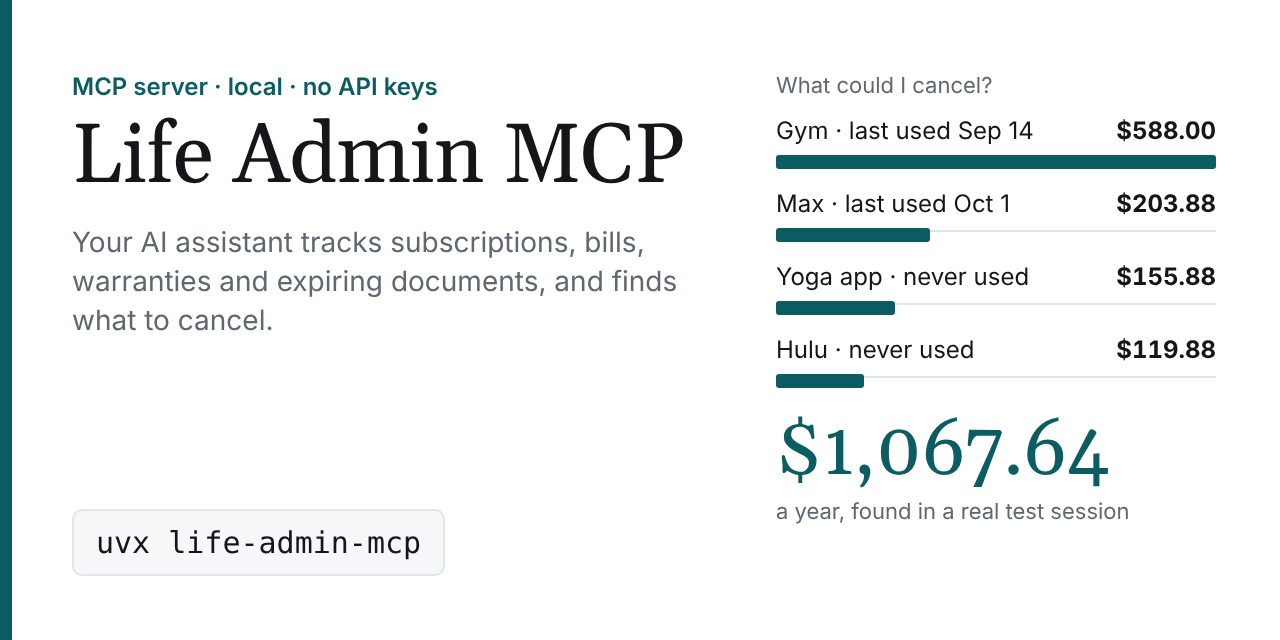
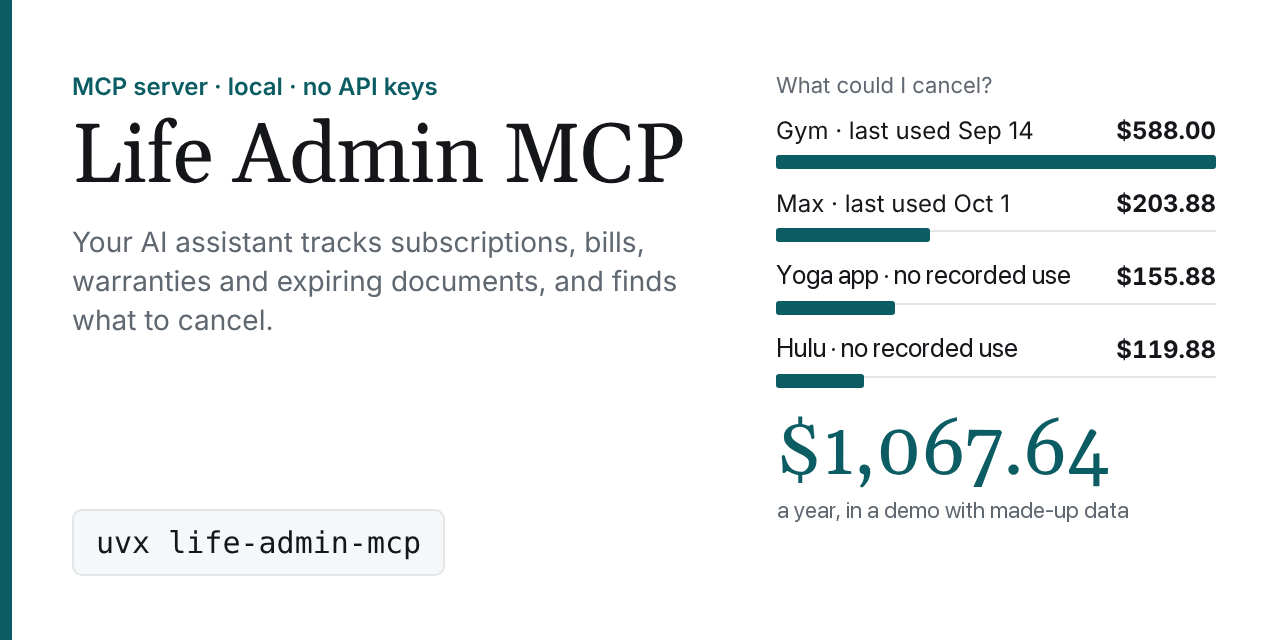
Make launch claims accurate and add privacy, limits and trademark notes
- Say what is true: local storage and no network calls, while noting that
  the AI assistant (and a cloud model's provider) sees tool results
- "Finds recurring charges" and "suggests what to cancel" instead of
  "every subscription" and "tells you what to cancel"
- cancel_item says it only stops tracking and does not cancel with the
  provider; savings output and server instructions say results are estimates
- Label the demo and social preview as made-up data; "no recorded use"
  instead of "never used"; date and attribute the cited survey correctly
- Add Privacy, Limitations and Trademarks sections and a delete-everything FAQ
- Issue template warns against posting real financial data
- Working private channel in the code of conduct; inbound MIT licence line
  in CONTRIBUTING; accurate file-access note in SECURITY.md
- Pin mcp-publisher to v1.8.16 with a SHA-256 check and pin the PyPI
  publish action to a commit

Changed region(s): [[0.5938, 0.4062, 0.8438, 0.4688], [0.5938, 0.7812, 0.875, 0.8125], [0.5938, 0.5312, 0.8125, 0.5625]]

diff --git a/src/life_admin_mcp/server.py b/src/life_admin_mcp/server.py
@@ -37,7 +37,10 @@ INSTRUCTIONS = (
     "Use get_upcoming for 'what's due', find_savings for 'what can I cancel', spending_summary for totals, "
     "forecast for future months. If the user has a bank or card statement, use scan_statement to find "
     "recurring charges, show them the results, and only add the items they confirm. "
-    "Confirm with the user before delete_item. Never invent amounts or dates: ask if unknown."
+    "Confirm with the user before delete_item. Never invent amounts or dates: ask if unknown. "
+    "Savings and recurring-charge results are estimates from the user's own data, not financial advice: "
+    "say so briefly, and suggest checking terms, notice periods and fees with the provider before cancelling. "
+    "This server cannot cancel anything with a provider; cancel_item only stops tracking."
 )
 
 mcp = _Server("life-admin", instructions=INSTRUCTIONS)
@@ -156,7 +159,8 @@ def add_item(
         cycle: weekly | monthly | quarterly | yearly | once. Warranties and documents are usually "once".
         category: Optional group such as "streaming", "insurance", "utilities". Used to spot overlaps.
         remind_days: How many days ahead it should appear in get_upcoming (passports: about 180).
-        notes: Anything useful, such as an account number hint or how to cancel.
+        notes: Anything useful, such as how to cancel or which login email it uses.
+            Never store full card or account numbers.
     """
     item = get_store().add(
         name=name,
@@ -259,6 +263,7 @@ def find_savings(unused_days: int = 30) -> str:
                 for i in s["stale"]
             )
             + f"\n  Potential saving: {_money(s['potential_yearly'])} per year"
+            + "\n  (Estimate only. Check terms and fees with each provider before cancelling.)"
         )
     if s["overlaps"]:
         out.append(
@@ -267,7 +272,9 @@ def find_savings(unused_days: int = 30) -> str:
                 f"  {cat}: " + ", ".join(f"{i.name} (#{i.id})" for i in items) for cat, items in s["overlaps"].items()
             )
         )
-    return "\n\n".join(out) or "No obvious savings: every subscription looks used and unique."
+    return (
+        "\n\n".join(out) or "No obvious savings: every tracked subscription has recent recorded use and none overlap."
+    )
 
 
 @tool(IDEMPOTENT)
@@ -309,9 +316,13 @@ def update_item(
 
 @tool(IDEMPOTENT)
 def cancel_item(item_id: int) -> str:
-    """Mark an item as cancelled. It stays in history (list_items include_inactive=true)
-    and stops appearing in reminders and totals. Use reactivate_item to undo."""
-    return "Cancelled:\n" + fmt(get_store().set_active(item_id, False))
+    """Stop tracking an item the user has cancelled (or will cancel) with the provider.
+    This does NOT contact the provider or cancel anything there. The item stays in history
+    (list_items include_inactive=true) and stops appearing in reminders and totals.
+    Use reactivate_item to undo."""
+    return "Stopped tracking (this does not cancel it with the provider; cancel there too):\n" + fmt(
+        get_store().set_active(item_id, False)
+    )
 
 
 @tool(IDEMPOTENT)
@@ -479,7 +490,7 @@ def upcoming_resource() -> str:
 
 @mcp.prompt()
 def import_statement() -> str:
-    """Find every subscription in a bank or card statement and start tracking them."""
+    """Find the recurring charges in a bank or card statement and start tracking the ones the user confirms."""
     return (
         "Help me find all my subscriptions and recurring bills. Ask me to export my last 3-12 months "
         "of transactions as a CSV from my bank or card app and give you the file path, or paste it. "

diff --git a/README.md b/README.md
@@ -2,23 +2,23 @@
 
 # Life Admin MCP
 
-**Give your AI assistant a bank statement. It finds every subscription you're paying for, warns you before free trials charge, and tells you what to cancel.**
+**Give your AI assistant a bank statement. It finds the recurring charges you're paying for, warns you before free trials charge, and suggests what you could cancel.**
 
 [![PyPI](https://img.shields.io/pypi/v/life-admin-mcp)](https://pypi.org/project/life-admin-mcp/)
 [![CI](https://github.com/bishalkarki01/life-admin-mcp/actions/workflows/ci.yml/badge.svg)](https://github.com/bishalkarki01/life-admin-mcp/actions/workflows/ci.yml)
 ![Python](https://img.shields.io/badge/python-3.10%2B-blue)
 ![License](https://img.shields.io/badge/license-MIT-green)
-![Local only](https://img.shields.io/badge/data-stays%20on%20your%20machine-0b5d63)
+![Local storage](https://img.shields.io/badge/storage-local%20SQLite%2C%20no%20network%20calls-0b5d63)
 
 <img src="https://raw.githubusercontent.com/bishalkarki01/life-admin-mcp/main/docs/demo.gif" alt="Demo: scanning a year of bank transactions finds 12 recurring charges worth $3,406 a year, then asking what to cancel finds $1,067 a year" width="800">
 
-<sub>Real output from a test session. [Watch the full 90-second demo](https://github.com/bishalkarki01/life-admin-mcp/raw/main/docs/demo.mp4).</sub>
+<sub>Real tool output from a demo with a made-up user and made-up data. Your results will differ. [Watch the full 90-second demo](https://github.com/bishalkarki01/life-admin-mcp/raw/main/docs/demo.mp4).</sub>
 
 </div>
 
 ---
 
-People guess they spend about **$86 a month** on subscriptions. When they add it up, the real figure is closer to **$219**, and 42% are paying for something they stopped using ([C+R Research survey, via CNBC](https://www.nbcwashington.com/news/business/money-report/consumers-spend-an-average-133-more-each-month-on-subscriptions-than-they-realize-study-shows/3067565/)).
+In a 2022 survey, people guessed they spend about **$86 a month** on subscriptions; asked category by category, the figure was closer to **$219**, and 42% said they'd forgotten a subscription they were still paying for ([C+R Research survey, reported via NBC](https://www.nbcwashington.com/news/business/money-report/consumers-spend-an-average-133-more-each-month-on-subscriptions-than-they-realize-study-shows/3067565/)).
 
 Life Admin MCP gives Claude, Cursor or any other MCP assistant a memory for this. You just talk to it:
 
@@ -29,14 +29,14 @@ Life Admin MCP gives Claude, Cursor or any other MCP assistant a memory for this
 > **Assistant:** $2,254.47 in charges. Rent and the gym on Dec 1, then Netflix, Spotify and your phone. Heads-up: your fridge warranty already expired, and your MacBook's ends Dec 12.
 
 > **You:** What could I cancel?
-> **Assistant:** You haven't used the gym since September, and the yoga app and Hulu never. Cancelling those and Max would save **$1,067.64 a year**. You also pay for three streaming services.
+> **Assistant:** You last used the gym in September, and there's no recorded use of the yoga app or Hulu. Cancelling those and Max would save about **$1,067.64 a year**. You also pay for three streaming services.
 
 ## Why you'll like it
 
 - 🔎 **Finds subscriptions you forgot.** Point it at a CSV from your bank or card app. It works with most banks' formats, removes the noise from merchant names, and finds anything that repeats weekly, monthly, quarterly or yearly. It spots price rises, tells variable bills apart from fixed ones, and flags subscriptions that have already stopped. It never stores the statement.
 - ⏳ **Catches free trials.** It warns you before a trial becomes a paid subscription.
 
-- 🔒 **Private.** Everything is stored in one SQLite file on your computer. It needs no account or API key, makes no network calls and has no telemetry.
+- 🔒 **Local storage, no network.** Everything is stored in one SQLite file on your computer. The server needs no account or API key, makes no network calls and has no telemetry. Your AI assistant does see tool results, so see [Privacy](#privacy).
 - ⚡ **30-second setup.** One line in your MCP client's config.
 - 🧠 **Remembers what you forget.**
   - Recurring charges move to their next date automatically.
@@ -45,8 +45,8 @@ Life Admin MCP gives Claude, Cursor or any other MCP assistant a memory for this
 - 💸 **Finds savings.** It spots unused subscriptions, overlaps like three streaming services, and price increases since you started tracking.
 - 📈 **Forecasts your spending.** It shows how much will go out each month for the next 1–36 months.
 - 📅 **Works with your calendar.** It exports a standard `.ics` file with alerts for Google, Apple or Outlook calendars.
-- ✅ **Production quality.**
-  - 72 tests run on Linux, macOS and Windows, on both MCP SDK v1 and v2.
+- ✅ **Well tested.**
+  - 103 tests run on Linux, macOS and Windows, on both MCP SDK v1 and v2.
   - Every input is validated.
   - Schema migrations keep your data safe across upgrades.
 
@@ -101,8 +101,8 @@ docker build -t life-admin-mcp . && docker run -i --rm -v life-admin:/data life-
 |---|---|
 | "Find my subscriptions in ~/Downloads/statement.csv" | Lists recurring charges with yearly costs, price changes and ones that look cancelled, then asks which to track |
 | "I started a Duolingo trial, it ends Dec 10 and then costs $12.99 a month" | Tracked as a trial, with a warning before it starts charging |
-| "Add my rent, $2,100 on the 1st of every month" | Tracked, with a reminder 7 days ahead |
-| "My passport expires 2027-05-02, warn me 6 months before" | Shows up in reminders from November |
+| "Add my rent, $2,100 on the 1st of every month" | Tracked; shows up in "what's due" from 7 days ahead |
+| "My passport expires 2027-05-02, warn me 6 months before" | Shows up in "what's due" from November |
 | "What's due this week?" | Charges and expiries, with expired items flagged first |
 | "How much do I spend on subscriptions?" | Monthly and yearly totals by category and currency |
 | "What could I cancel?" | Unused subscriptions and overlaps, with the yearly saving |
@@ -125,7 +125,7 @@ docker build -t life-admin-mcp . && docker run -i --rm -v life-admin:/data life-
 | `find_savings` | Find unused subscriptions and overlaps | read-only |
 | `mark_used` | Record that you used a subscription | write |
 | `update_item` | Change any field | write |
-| `cancel_item` / `reactivate_item` | Stop or resume tracking (history is kept) | write |
+| `cancel_item` / `reactivate_item` | Stop or resume tracking. This does not cancel anything with the provider; history is kept | write |
 | `delete_item` | Permanently delete an item | **destructive** |
 | `forecast` | Show money going out per month | read-only |
 | `get_item` | Show full details, including price history | read-only |
@@ -147,22 +147,35 @@ HTTP mode only listens on your own machine, because it has no login. To bind it 
 ## FAQ
 
 **Does it connect to my bank?**
-No, and that's on purpose: nothing leaves your machine. Export a CSV from your bank or card app (most have "Download transactions") and ask your assistant to scan it. The statement is analysed in memory and never stored. Only the items you confirm are saved.
+No, and that's on purpose: the server never connects to your bank or the internet. Export a CSV from your bank or card app (most have "Download transactions") and ask your assistant to scan it. The statement is analysed in memory and never stored. Only the items you confirm are saved.
 
 **Which banks work?**
-Most CSV exports work. It detects the date, description and amount (or debit/credit) columns, the delimiter, the date format (US, EU or ISO), and whether spending is shown as positive or negative. It also skips header lines some banks put above the data. If yours doesn't work, [open an issue](https://github.com/bishalkarki01/life-admin-mcp/issues/new/choose) with the header row and one made-up line.
+Most CSV exports work. It detects the date, description and amount (or debit/credit) columns, the delimiter, the date format (US, EU or ISO), and whether spending is shown as positive or negative. It also skips header lines some banks put above the data. If yours doesn't work, [open an issue](https://github.com/bishalkarki01/life-admin-mcp/issues/new/choose) with the header row and one made-up line. Never post real transactions: issues are public.
 
 **Can I try it without my own data?**
 Yes. Download [`sample-statement.csv`](https://raw.githubusercontent.com/bishalkarki01/life-admin-mcp/main/examples/sample-statement.csv), a realistic made-up year of card transactions, then ask your assistant to scan it using the full path where you saved it.
 
 **Will it remind me on its own?**
-Your assistant reminds you when you ask. For phone alerts, say "put it all on my calendar" and import the `.ics` file into your calendar app.
+Your assistant reminds you when you ask. For phone alerts, say "put it all on my calendar" and import the `.ics` file into your calendar app. The file is a snapshot, so export it again after changes. Don't rely on this tool alone for legal, travel or payment deadlines.
 
 **Can I use different currencies?**
 Yes. Totals are kept separately for each currency and never converted.
 
 **Where's my data, and how do I back it up?**
 It's one file at `~/.life-admin/life_admin.db` (on macOS and Linux, only your user account can read it). To back it up, ask "back up my data", or copy that file.
+
+**How do I delete everything?**
+Quit your MCP client and delete the `~/.life-admin/` folder (or the file you set with `--db`, plus any `-wal` and `-shm` files next to it).
+
+## Privacy
+
+The maintainer collects no data. Life Admin MCP has no servers, accounts, analytics or telemetry, and it stores your items in a local SQLite file that you control.
+
+What the tools return (merchant names, amounts, dates, notes) goes into your conversation with your AI assistant. If that assistant uses a cloud model (Claude, ChatGPT, Cursor and so on), its provider processes that text under its own privacy terms. To keep raw statement rows out of the chat, give the assistant a file path instead of pasting the CSV. To keep everything on your machine, use a local model.
+
+## Limitations
+
+Life Admin MCP is a personal organiser, not financial, legal or tax advice. It finds subscriptions by spotting patterns, so it can miss charges, misread amounts or dates, or flag something you still need. "Unused" only means you haven't told it you used something. Reminders appear only when you ask your assistant or import a calendar file. It cannot cancel anything with a provider: check terms, notice periods and fees with the provider before you cancel. It is provided as is, with no warranty (see the [license](https://github.com/bishalkarki01/life-admin-mcp/blob/main/LICENSE)).
 
 ## Roadmap
 
@@ -182,6 +195,10 @@ PRs are welcome. See [CONTRIBUTING.md](https://github.com/bishalkarki01/life-adm
 ```bash
 pip install -e ".[dev]" && pytest
 ```
+
+## Trademarks
+
+Product and company names such as Netflix, Spotify, Hulu, Max, Apple, Adobe, Amazon, YouTube, Claude and Cursor are trademarks of their respective owners. They appear only to describe example transactions and compatible apps. Life Admin MCP is an independent project and is not affiliated with or endorsed by any of them, including Anthropic.
 
 ## License
 

diff --git a/SECURITY.md b/SECURITY.md
@@ -14,7 +14,7 @@ Security fixes go into the latest release.
 ## Design
 
 - **No network access.** The server makes no outbound connections and collects no telemetry.
-- **Narrow file access.** It reads and writes only its own SQLite database (`~/.life-admin/` by default), and creates that folder so only your user can open it.
+- **Narrow file access.** It writes only to its own SQLite database (`~/.life-admin/` by default), which it creates so only your user can open it. The only other files it reads are statements passed to `scan_statement` as `csv_path`: any `.csv`, `.tsv` or `.txt` file under 5 MB that your account can read. Keep your client's tool-approval prompts on to see which file it reads.
 - **Statements stay in memory.** `scan_statement` analyses a statement in memory and never stores it. With `csv_path` it opens only `.csv`, `.tsv` or `.txt` files under 5 MB.
 - **HTTP stays local.** HTTP mode binds to 127.0.0.1 and refuses other addresses unless you pass `--allow-remote`, because it has no authentication.
 - **Validated input.** Every tool input is checked for type, range and length, and SQL queries use bound parameters.

diff --git a/CHANGELOG.md b/CHANGELOG.md
@@ -2,7 +2,7 @@
 
 ## 1.0.0 — 2026-11-25
 
-First production release.
+First stable release.
 
 ### Added
 - **Statement scanning (`scan_statement`).** Finds recurring charges in a bank or card CSV:
@@ -21,7 +21,7 @@ First production release.
 - Tool annotations that tell clients which tools only read, which change data, and which delete.
 - A `weekly_review` prompt and a `life-admin://upcoming` resource.
 - Works with MCP Python SDK v1 and v2.
-- 72 tests, including end-to-end stdio and HTTP-safety tests. CI runs them on Linux, macOS and Windows, Python 3.10 and 3.13, and both SDK versions.
+- 103 tests, including end-to-end stdio and HTTP-safety tests. CI runs them on Linux, macOS and Windows, Python 3.10 and 3.13, and both SDK versions.
 - Pushing a version tag publishes to PyPI, the official MCP Registry (`io.github.bishalkarki01/life-admin-mcp`) and GitHub Releases.
 
 ### Fixed (found while testing on a realistic session)

diff --git a/CODE_OF_CONDUCT.md b/CODE_OF_CONDUCT.md
@@ -4,6 +4,8 @@ This project follows the [Contributor Covenant, version 2.1](https://www.contrib
 
 In short: be kind, assume good intent, and focus on the work. Harassment of any kind isn't tolerated.
 
-To report unacceptable behaviour, contact the maintainer privately through a
-[GitHub security advisory](https://github.com/bishalkarki01/life-admin-mcp/security/advisories/new)
-or by direct message to [@bishalkarki01](https://github.com/bishalkarki01).
+To report unacceptable behaviour privately, use GitHub's private reporting form:
+[open a private report](https://github.com/bishalkarki01/life-admin-mcp/security/advisories/new)
+and start the title with **"Conduct:"**. Only the maintainer can see it. Reports are kept
+confidential, and you'll get a reply within 7 days. The maintainer may warn, temporarily ban or
+permanently ban anyone who breaks this code, following the Contributor Covenant's enforcement guidelines.

diff --git a/CONTRIBUTING.md b/CONTRIBUTING.md
@@ -2,6 +2,10 @@
 
 Thanks for helping! Bug reports, ideas and pull requests are all welcome.
 
+By submitting a contribution, you agree that it is licensed under the project's [MIT License](LICENSE) and that you have the right to submit it.
+
+**Issues are public.** Never post real bank or card data, account or card numbers, names, addresses or document numbers. For a CSV problem, share only the header row and one made-up line.
+
 ## Quick start
 
 ```bash
